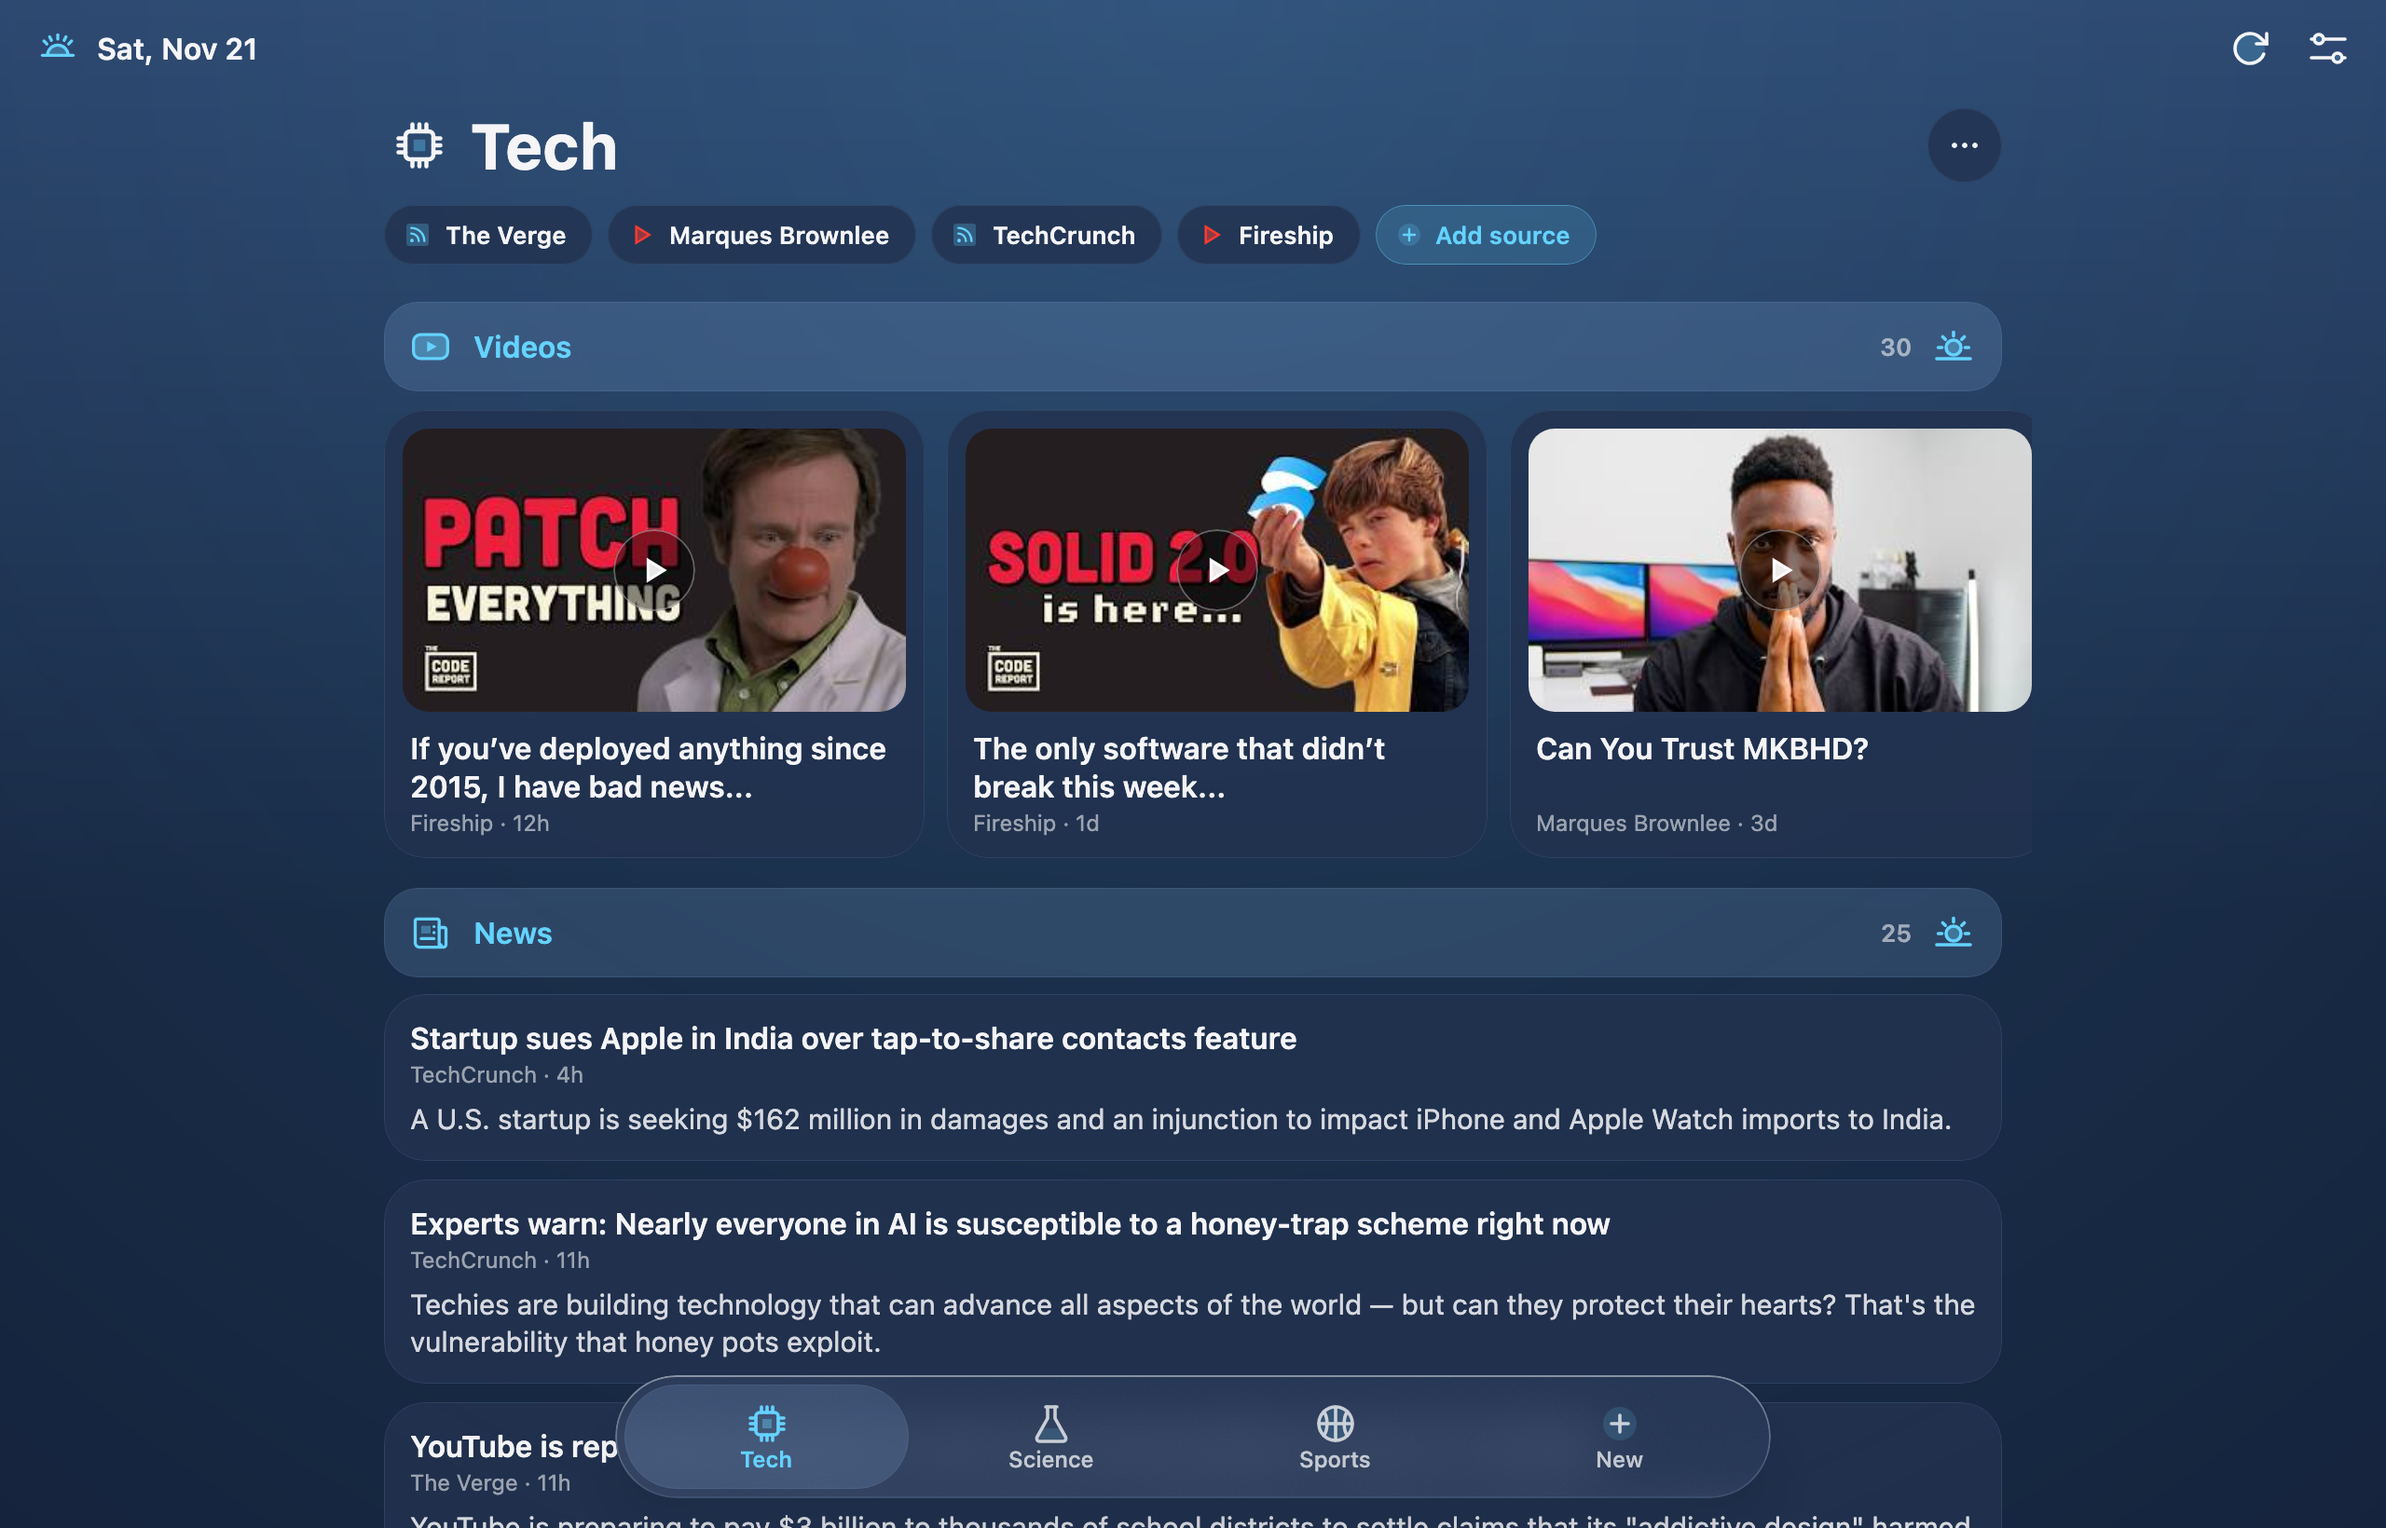
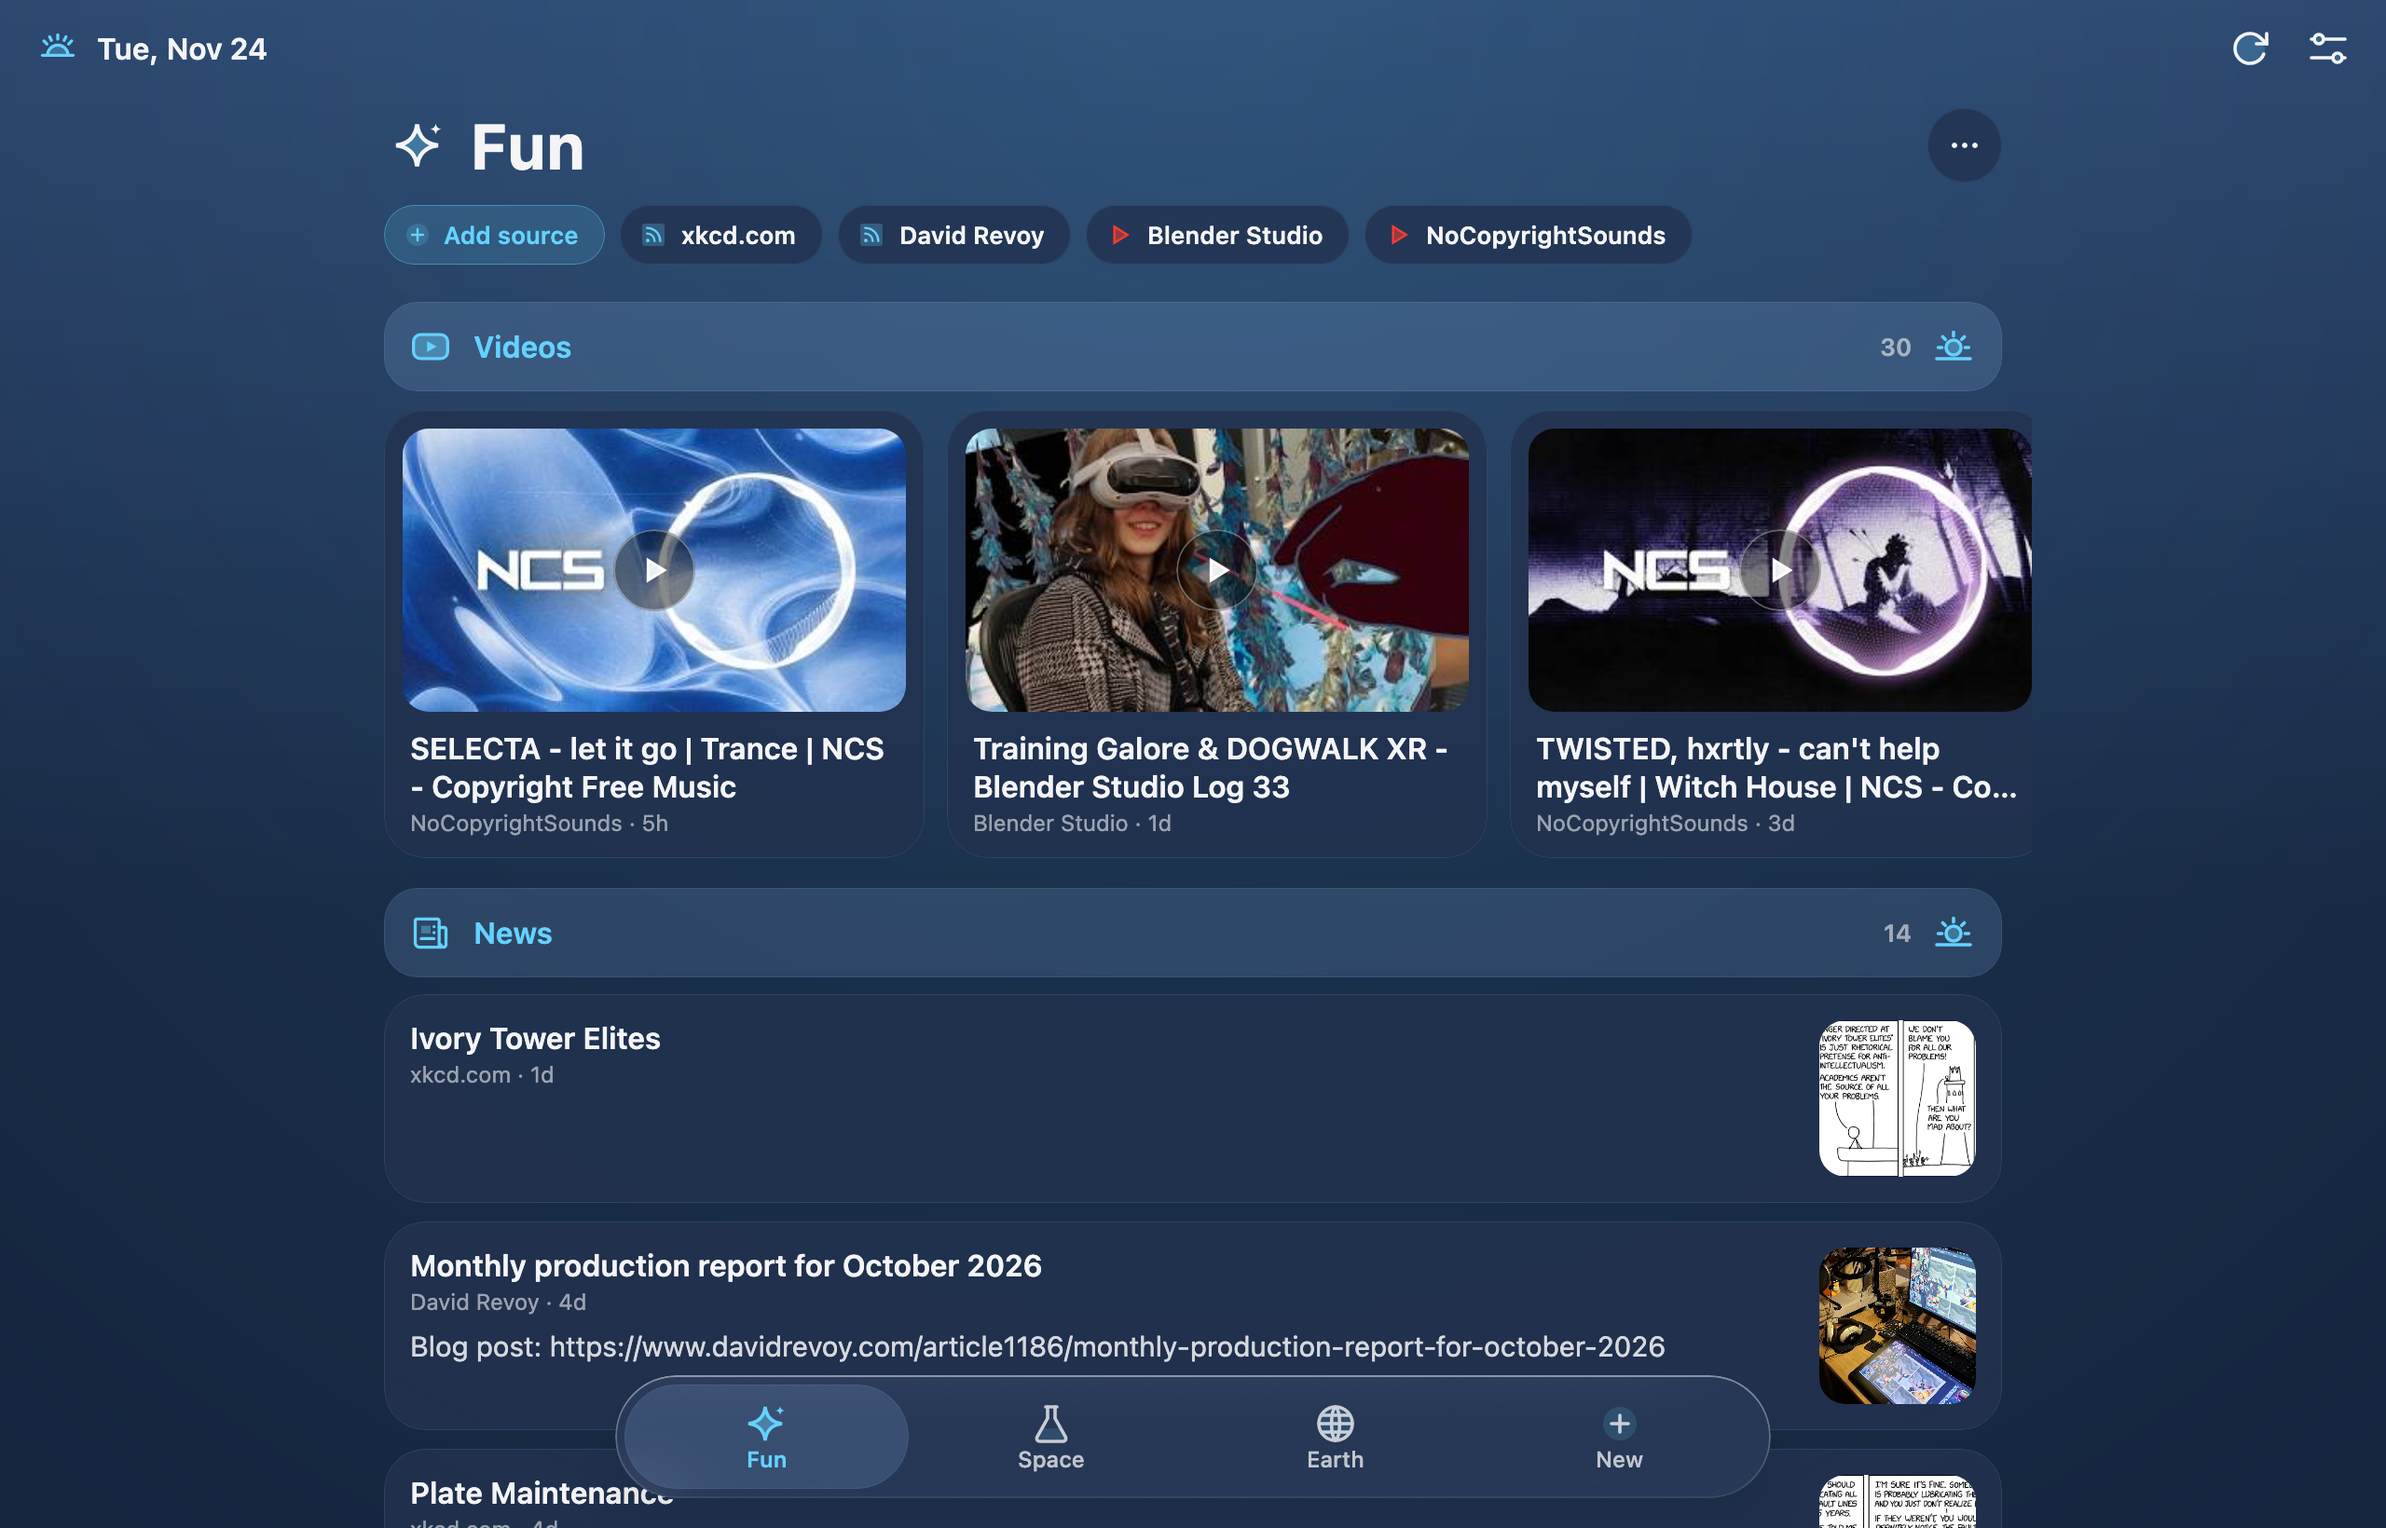
Desktop screenshot: the Fun section with copyright-free sources
docs/desktop.png now shows xkcd, Pepper&Carrot, Blender Studio and
NoCopyrightSounds instead of the old Tech section. ScreenshotTest can
read the sources live first (SHOT_REFRESH=1), so a data.json with only
sections and sources is enough to render it.

diff --git a/composeApp/src/desktopTest/kotlin/app/morningreport/ScreenshotTest.kt b/composeApp/src/desktopTest/kotlin/app/morningreport/ScreenshotTest.kt
@@ -5,6 +5,7 @@ import androidx.compose.ui.unit.Density
 import kotlinx.coroutines.Dispatchers
 import kotlinx.coroutines.SupervisorJob
 import kotlinx.coroutines.CoroutineScope
+import kotlinx.coroutines.runBlocking
 import org.jetbrains.skia.EncodedImageFormat
 import java.io.File
 import kotlin.test.Test
@@ -12,12 +13,16 @@ import kotlin.test.Test
 /**
  * Renders the desktop window off screen for the README. Skipped unless SHOT_DATA (a data.json) and SHOT_OUT are set:
  *   SHOT_DATA=… SHOT_OUT=docs/desktop.png ./gradlew :composeApp:desktopTest --tests '*ScreenshotTest*'
+ * SHOT_REFRESH=1 reads every source in the data from the network first (a data.json with sources only is enough).
  */
 class ScreenshotTest {
     @Test fun desktop() {
         val data = System.getenv("SHOT_DATA") ?: return
         val out = System.getenv("SHOT_OUT") ?: return
-        val repo = Repository(load = { File(data).readText() }, save = {}, fetcher = { null })
+        val live = System.getenv("SHOT_REFRESH") == "1"
+        val repo = if (live) Repository(load = { File(data).readText() }, save = {})
+            else Repository(load = { File(data).readText() }, save = {}, fetcher = { null })
+        if (live) runBlocking { repo.refresh(onlyDue = false) }
         val model = AppModel(repo, CoroutineScope(SupervisorJob() + Dispatchers.Default))
         System.getenv("SHOT_SECTION")?.let { t -> model.selected = repo.data.value.sections.firstOrNull { it.title == t }?.id ?: model.selected }
         val scene = ImageComposeScene(1280 * 2, 820 * 2, Density(2f)) { App(model, Strings(System.getenv("SHOT_LANG") == "tr")) }
